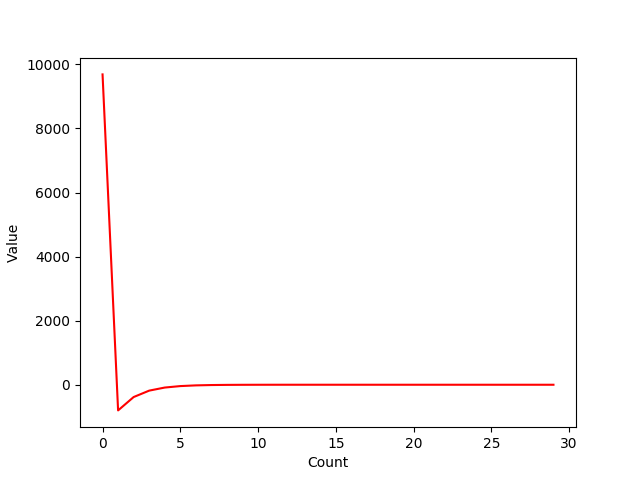
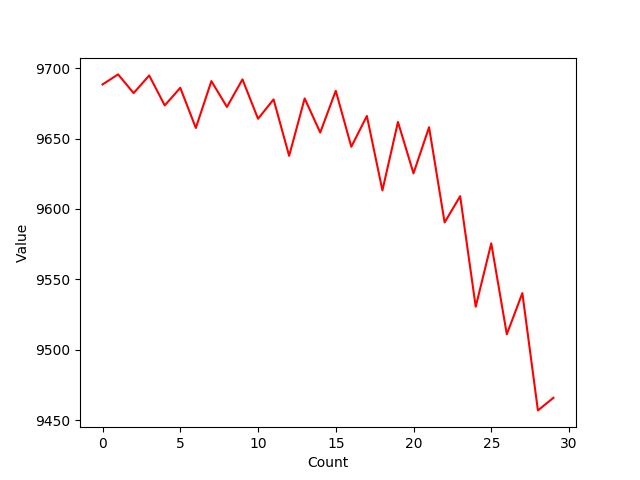
Automated Commision

diff --git a/service.py b/service.py
@@ -91,8 +91,9 @@ def long_term_prediction(stock, _range, model_name):
             for j in range(result.shape[1]):
                 prediction = rescale(result[i][j], timeseries.minimum(), timeseries.maximum())
         prediction_matrix.append(prediction)
-
         raw = timeseries.raw_matrix()
+        for i in range(0, len(raw)):
+            raw[i] = rescale(raw[i], timeseries.minimum(), timeseries.maximum())
         del raw[0]
         raw.append(prediction)
         timeseries.set_raw_matrix(raw)
